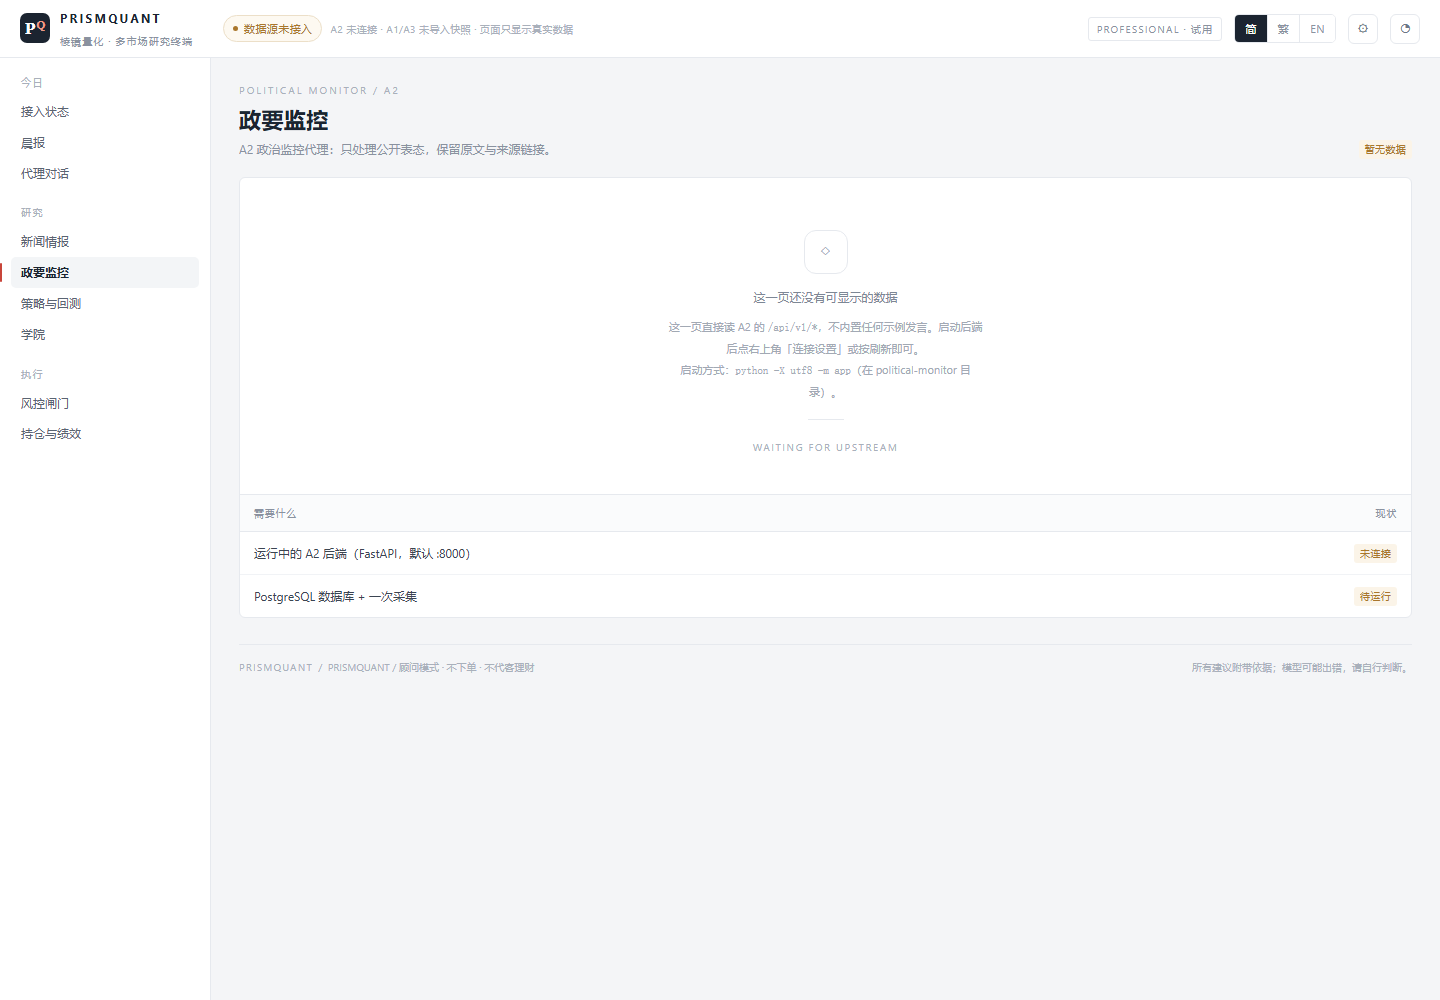
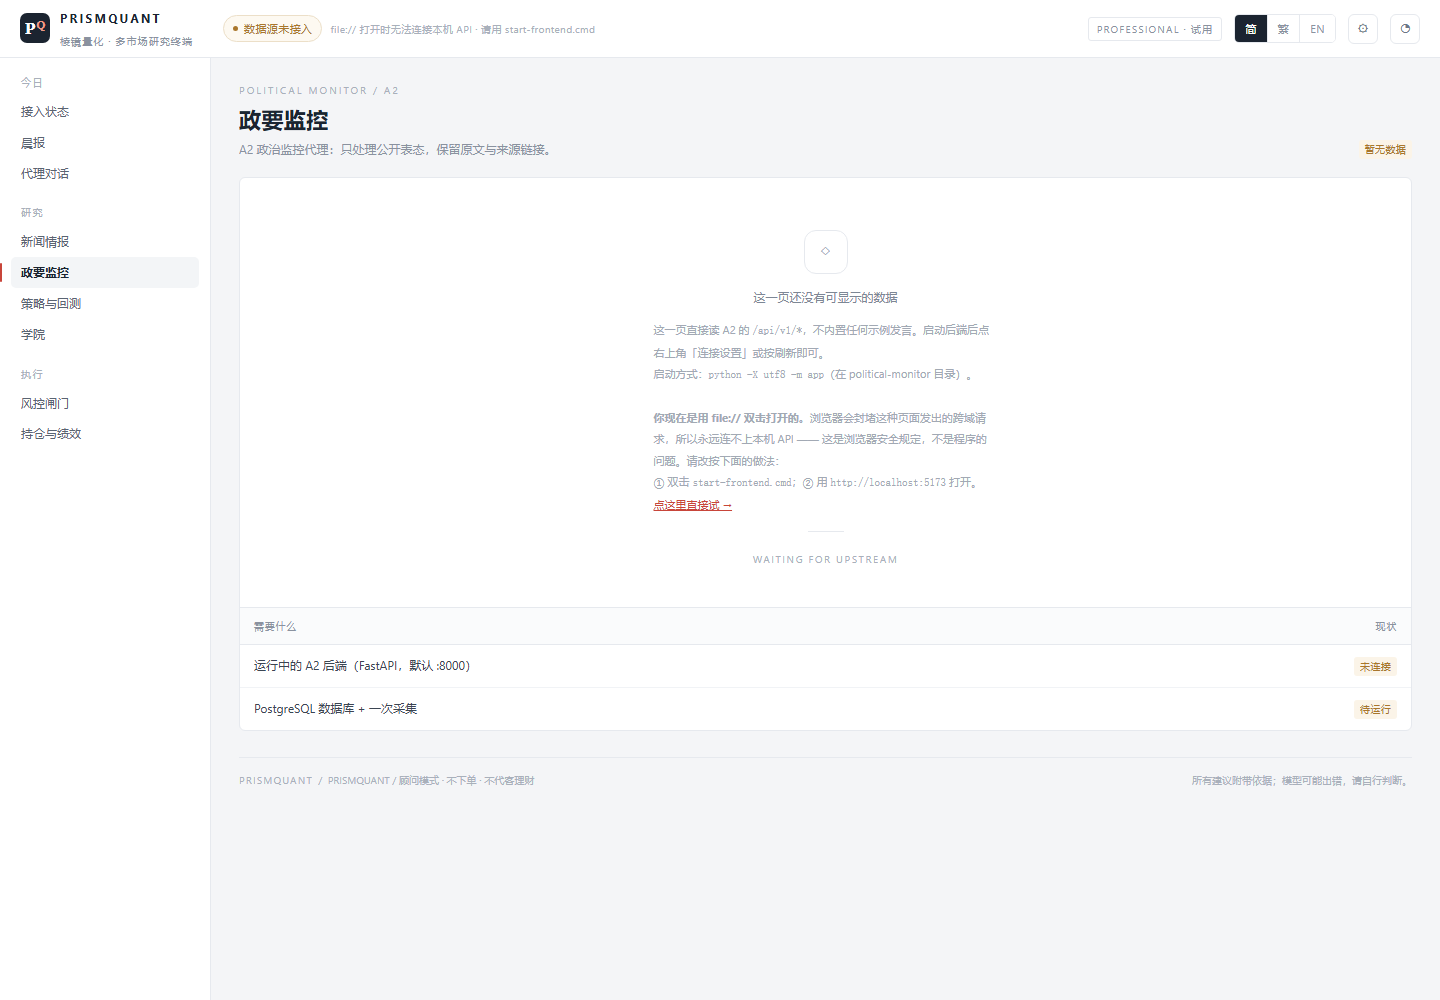
ux: explain the file:// limitation on the political page
Opening index.html by double-click gives the page a null origin, so the
browser blocks every cross-origin call to the local API — the page can never
connect that way. The empty state and the header note now say so, and offer a
direct link to the localhost:5173 URL that does work.

diff --git a/index.html b/index.html
@@ -882,7 +882,7 @@ function emptyPage(eyebrow, title, sub, rows, note) {
         <div class="empty" style="padding:52px 32px 38px">
           <div class="sym">◇</div>
           <h4>${isZh() ? '这一页还没有可显示的数据' : 'Nothing to show yet'}</h4>
-          <p style="max-width:54ch;margin:10px auto 0">${note || ''}</p>
+          <p style="max-width:58ch;margin:12px auto 0;text-align:left;line-height:1.95">${note || ''}</p>
           <div class="rule"></div>
           <span class="micro">WAITING FOR UPSTREAM</span>
         </div>
@@ -1138,6 +1138,9 @@ function viewPolitical() {
     [isZh() ? 'PostgreSQL 数据库 + 一次采集' : 'PostgreSQL + one collection run', '<span class="tag amber">待运行</span>']
   ], isZh()
     ? '这一页直接读 A2 的 <code>/api/v1/*</code>，不内置任何示例发言。启动后端后点右上角「连接设置」或按刷新即可。<br>启动方式：<code>python -X utf8 -m app</code>（在 political-monitor 目录）。'
+      + (location.protocol === 'file:'
+        ? '<br><br><b>你现在是用 file:// 双击打开的。</b>浏览器会封堵这种页面发出的跨域请求，所以永远连不上本机 API —— 这是浏览器安全规定，不是程序的问题。请改按下面的做法：<br>① 双击 <code>start-frontend.cmd</code>；② 用 <code>http://localhost:5173</code> 打开。<br><a href="http://localhost:5173/index.html?skip=1&api=http://127.0.0.1:8000#/political" style="color:#c8453a">点这里直接试 →</a>'
+        : '')
     : "This page reads A2's <code>/api/v1/*</code> directly and ships no sample statements. Start the backend, then refresh.");
   const demo = !A2.live;
   const recordsCount = demo ? POL_DEMO_RECORDS.length : A2.records.length;
@@ -1567,7 +1570,11 @@ function setConn(kind) {
   if (note) {
     note.textContent = kind === 'ok'
       ? (isZh() ? 'A2 政治监控读取真实后端 · 其余页面为真实快照或空状态' : 'A2 reads the live backend; other pages are real snapshots or empty')
-      : (isZh() ? 'A2 未连接 · A1/A3 未导入快照 · 页面只显示真实数据' : 'A2 offline, no snapshots imported — only real data is shown');
+      : (isZh()
+        ? (location.protocol === 'file:'
+          ? 'file:// 打开时无法连接本机 API · 请用 start-frontend.cmd'
+          : 'A2 未连接 · A1/A3 未导入快照 · 页面只显示真实数据')
+        : 'A2 offline, no snapshots imported — only real data is shown');
   }
 }
 function apiUrl(p) { return (A2.base || '') + p; }

diff --git a/src/p4b_political_strategy.js b/src/p4b_political_strategy.js
@@ -63,6 +63,9 @@ function viewPolitical() {
     [isZh() ? 'PostgreSQL 数据库 + 一次采集' : 'PostgreSQL + one collection run', '<span class="tag amber">待运行</span>']
   ], isZh()
     ? '这一页直接读 A2 的 <code>/api/v1/*</code>，不内置任何示例发言。启动后端后点右上角「连接设置」或按刷新即可。<br>启动方式：<code>python -X utf8 -m app</code>（在 political-monitor 目录）。'
+      + (location.protocol === 'file:'
+        ? '<br><br><b>你现在是用 file:// 双击打开的。</b>浏览器会封堵这种页面发出的跨域请求，所以永远连不上本机 API —— 这是浏览器安全规定，不是程序的问题。请改按下面的做法：<br>① 双击 <code>start-frontend.cmd</code>；② 用 <code>http://localhost:5173</code> 打开。<br><a href="http://localhost:5173/index.html?skip=1&api=http://127.0.0.1:8000#/political" style="color:#c8453a">点这里直接试 →</a>'
+        : '')
     : "This page reads A2's <code>/api/v1/*</code> directly and ships no sample statements. Start the backend, then refresh.");
   const demo = !A2.live;
   const recordsCount = demo ? POL_DEMO_RECORDS.length : A2.records.length;

diff --git a/src/p5_boot.js b/src/p5_boot.js
@@ -47,7 +47,11 @@ function setConn(kind) {
   if (note) {
     note.textContent = kind === 'ok'
       ? (isZh() ? 'A2 政治监控读取真实后端 · 其余页面为真实快照或空状态' : 'A2 reads the live backend; other pages are real snapshots or empty')
-      : (isZh() ? 'A2 未连接 · A1/A3 未导入快照 · 页面只显示真实数据' : 'A2 offline, no snapshots imported — only real data is shown');
+      : (isZh()
+        ? (location.protocol === 'file:'
+          ? 'file:// 打开时无法连接本机 API · 请用 start-frontend.cmd'
+          : 'A2 未连接 · A1/A3 未导入快照 · 页面只显示真实数据')
+        : 'A2 offline, no snapshots imported — only real data is shown');
   }
 }
 function apiUrl(p) { return (A2.base || '') + p; }

diff --git a/src/p4a_views.js b/src/p4a_views.js
@@ -111,7 +111,7 @@ function emptyPage(eyebrow, title, sub, rows, note) {
         <div class="empty" style="padding:52px 32px 38px">
           <div class="sym">◇</div>
           <h4>${isZh() ? '这一页还没有可显示的数据' : 'Nothing to show yet'}</h4>
-          <p style="max-width:54ch;margin:10px auto 0">${note || ''}</p>
+          <p style="max-width:58ch;margin:12px auto 0;text-align:left;line-height:1.95">${note || ''}</p>
           <div class="rule"></div>
           <span class="micro">WAITING FOR UPSTREAM</span>
         </div>
